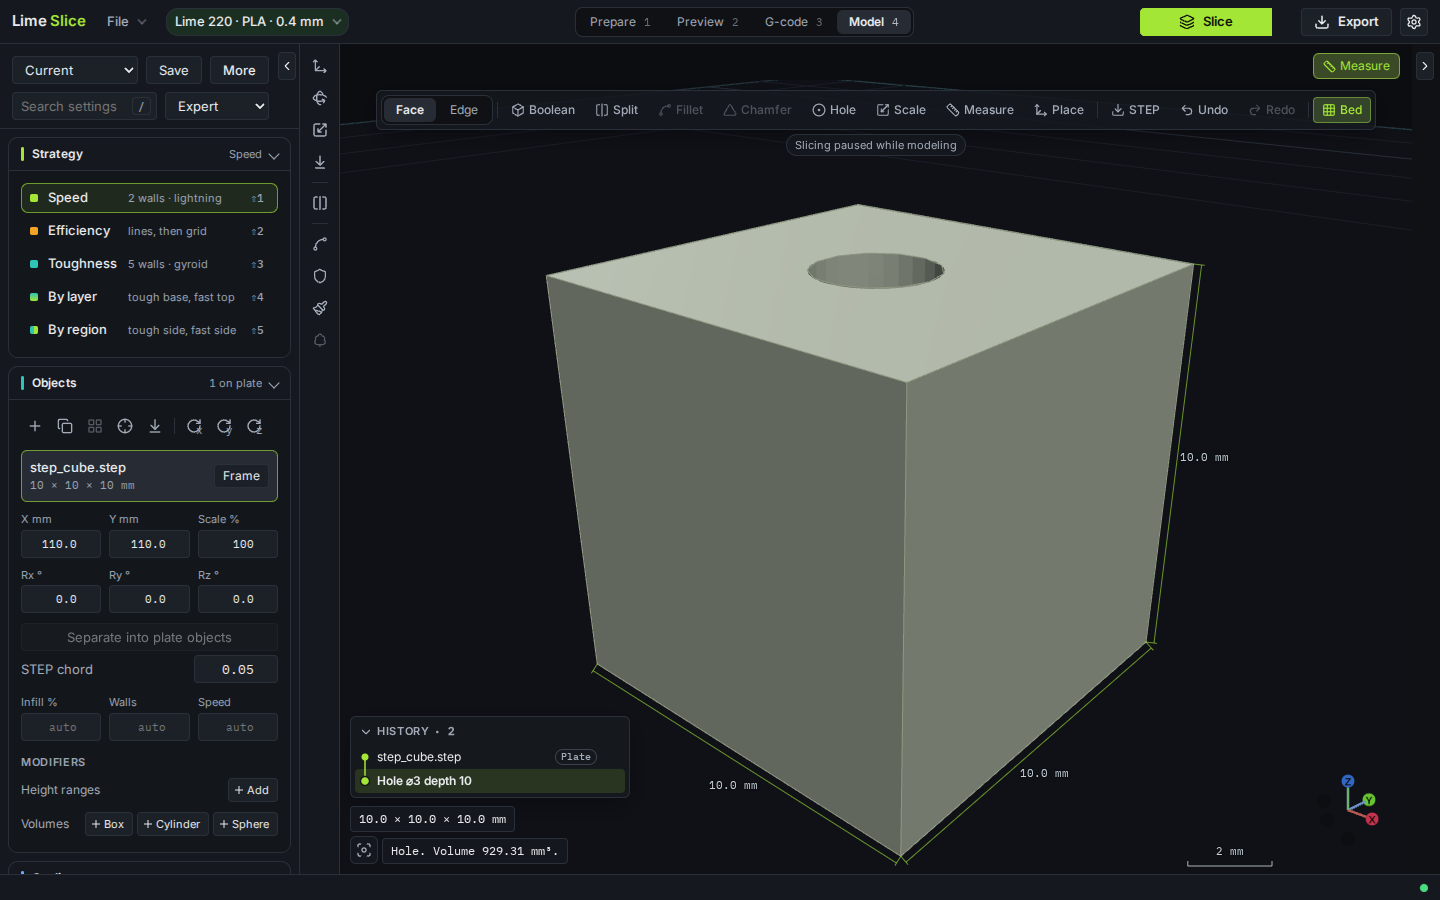
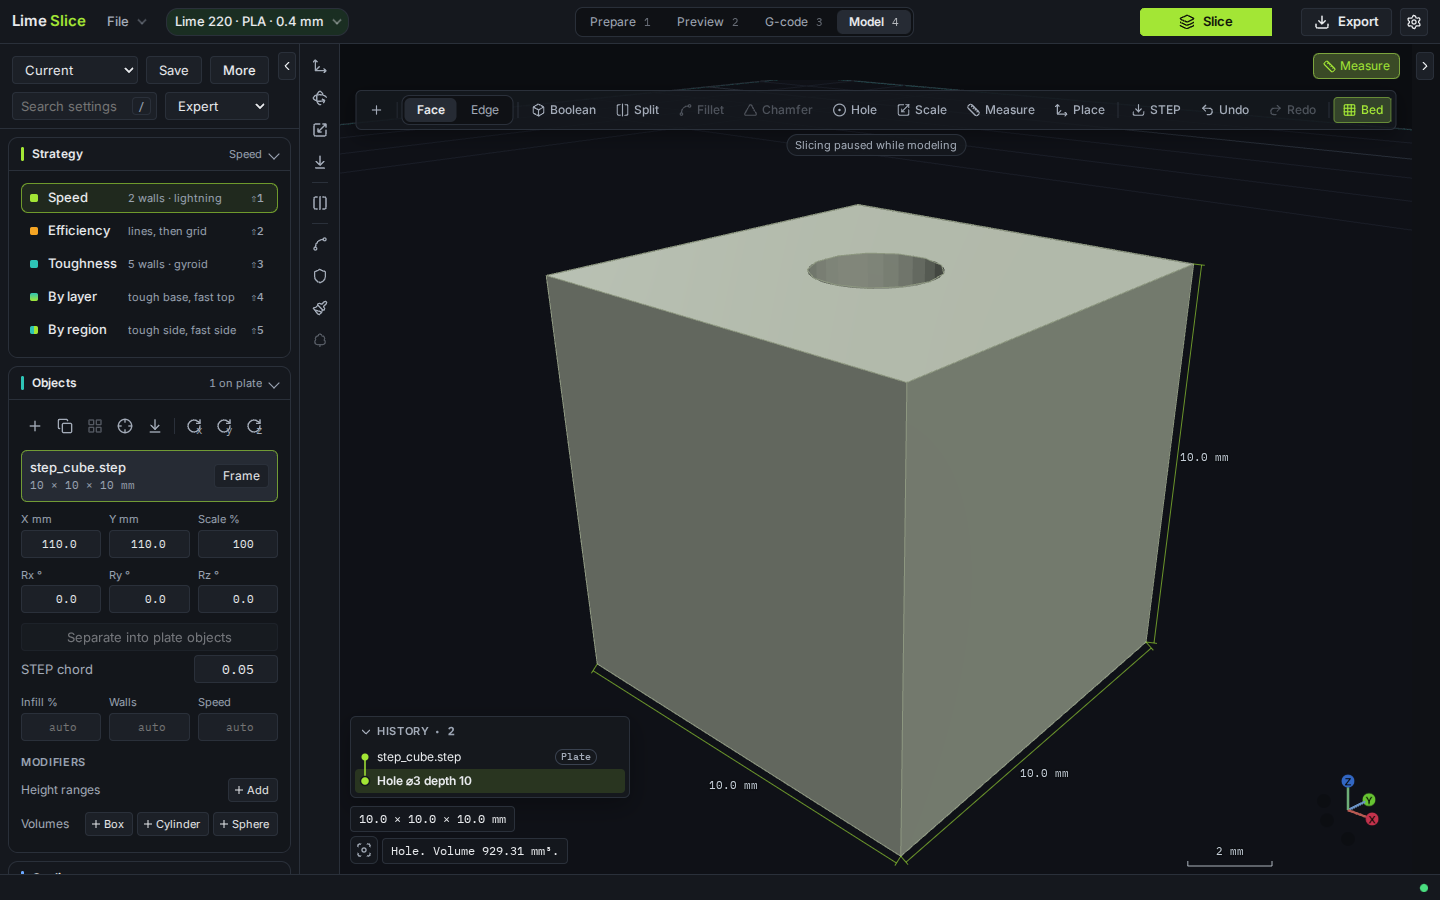
Mention new solids in the Model description and retake that shot.
Model can start from a primitive as well as a STEP file, and the toolbar now leads with that button.

Changed region(s): [[0.25, 0.0933, 0.5, 0.1556], [0.7812, 0.0933, 0.9688, 0.1556], [0.5312, 0.0933, 0.75, 0.1244]]

diff --git a/README.md b/README.md
@@ -8,7 +8,7 @@ Lime Slice 1.5.0 is a slicer for filament printers. Open an STL, 3MF, or STEP fi
 
 **Reinforce** paints a patch on the surface, or places a box or a cylinder, so that part of the model prints denser infill, up to solid. The rest of the part keeps the strategy.
 
-**Model** edits a STEP solid. Fuse, cut, or intersect it with a box, cylinder, or sphere. Split it on a plane. Fillet or chamfer the picked edges, drill a hole, scale it, or measure between two points. Undo and redo step through those edits. The History tree of the steps is saved in the `.lime` project, so the same solid opens again. The desktop release includes the Open CASCADE libraries that do this work. A build without them still slices an unedited STEP file, and Model stays off. An unedited STEP is tessellated on load with the pure-Rust [truck](https://github.com/ricosjp/truck) kernel: planes, cylinders, cones, spheres, tori, and NURBS, with file units converted to millimetres. Assemblies and multi-body parts become one mesh; each instance keeps its placement. The chord tolerance defaults to 0.1 mm (0.01–2 mm) via the Prepare field or `slice --step-tolerance`. Faceted brep and AP242 tessellated solids are rejected with an error.
+**Model** edits a STEP solid, or starts one from a box, cylinder, sphere, cone, torus, wedge, polygon, or tube. Fuse, cut, or intersect the solid with one of those shapes. Split it on a plane. Fillet or chamfer the picked edges, drill a hole, scale it, or measure between two points. Undo and redo step through those edits. The History tree of the steps is saved in the `.lime` project, so the same solid opens again. The desktop release includes the Open CASCADE libraries that do this work. A build without them still slices an unedited STEP file, and Model stays off. An unedited STEP is tessellated on load with the pure-Rust [truck](https://github.com/ricosjp/truck) kernel: planes, cylinders, cones, spheres, tori, and NURBS, with file units converted to millimetres. Assemblies and multi-body parts become one mesh; each instance keeps its placement. The chord tolerance defaults to 0.1 mm (0.01–2 mm) via the Prepare field or `slice --step-tolerance`. Faceted brep and AP242 tessellated solids are rejected with an error.
 
 **Belt printers.** A generic 45° belt and the Ideaformer IR3 V2 slice on the belt. The belt carries the part along its length.
 
